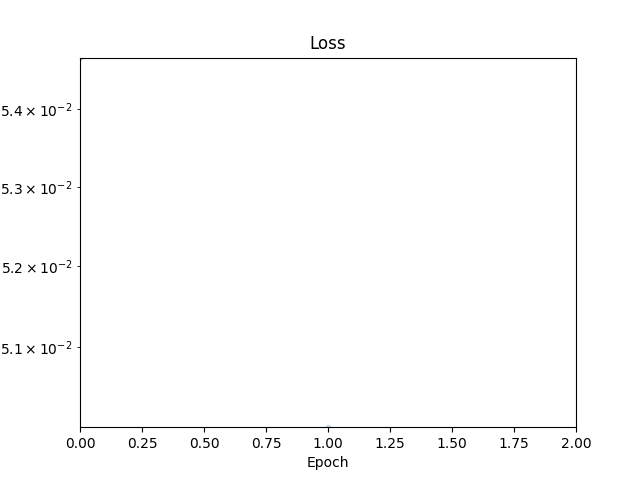
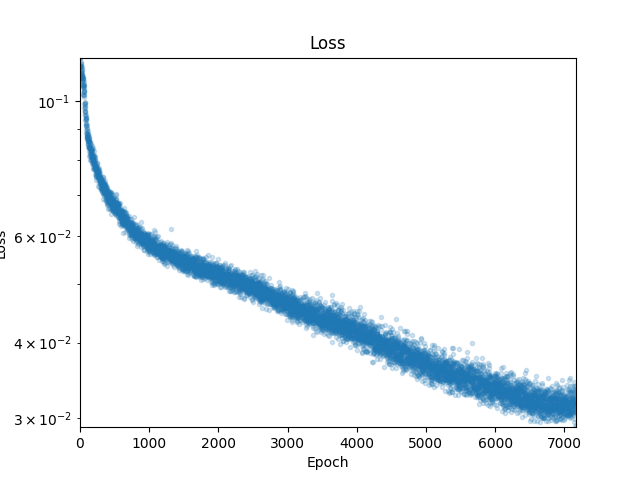
feat: update weights

diff --git a/training/train.py b/training/train.py
@@ -138,7 +138,6 @@ def forward_pass(model: nn.Module, state, updates, record=False):  # TODO
 
     return state
 
-
 def update_pass(model, batch, target_voxel, optimiser):
     """
     Back calculate gradient and update model paramaters
@@ -217,13 +216,13 @@ if __name__ == "__main__":
     DEBUG_MODE = Debug.CONCISE  # OFF, VERBOSE, CONCISE
 
     torch.manual_seed(0)
-    TRAINING = True
+    TRAINING = False
     GRID_SIZE = 32
     CHANNELS = 16
     VOXEL_PATH_NAME = "donut"
 
     MODEL = NCA_3D()
-    EPOCHS = 40
+    EPOCHS = 0
     BATCH_SIZE = 32
     UPDATES_RANGE = [64, 96]
 
@@ -236,27 +235,27 @@ if __name__ == "__main__":
     target_voxel = minimise_voxel(target_voxel).cpu()
     # anim = visualise(target_voxel, save=False, show=True)
 
-    if TRAINING:
-        if os.path.exists(f"{VOXEL_PATH_NAME}.pth"):
-            MODEL.load_state_dict(
-                torch.load(f"{VOXEL_PATH_NAME}.pth", map_location=torch.device("cpu"))
-            )
-        MODEL, losses = train(MODEL, target_voxel, optimizer, DEBUG_MODE=DEBUG_MODE)
-        torch.save(MODEL.state_dict(), f"{VOXEL_PATH_NAME}.pth")
+    if os.path.exists(f"{VOXEL_PATH_NAME}.pth"):
+        MODEL.load_state_dict(
+            torch.load(f"{VOXEL_PATH_NAME}.pth", map_location=torch.device("cpu"))
+        )
+    # if TRAINING:
+        # MODEL, losses = train(MODEL, target_voxel, optimizer, DEBUG_MODE=DEBUG_MODE)
+        # torch.save(MODEL.state_dict(), f"{VOXEL_PATH_NAME}.pth")
 
-        # Plot losses, and save to loss.png
-        fig = plt.figure()
-        ax = fig.add_subplot(1, 1, 1)
+        # # Plot losses, and save to loss.png
+        # fig = plt.figure()
+        # ax = fig.add_subplot(1, 1, 1)
 
-        ax.cla()
-        ax.set_yscale('log')
-        ax.set_xlim(0, EPOCHS)
-        ax.set_ylim(min(losses), losses[0])
-        ax.set_xlabel('Epoch')
-        ax.set_ylabel('Loss')
-        ax.set_title('Loss')
-        ax.plot(losses, '.', alpha=0.2)
-        plt.savefig('loss.png')
+        # ax.cla()
+        # ax.set_yscale('log')
+        # ax.set_xlim(0, EPOCHS)
+        # ax.set_ylim(min(losses), losses[0])
+        # ax.set_xlabel('Epoch')
+        # ax.set_ylabel('Loss')
+        # ax.set_title('Loss')
+        # ax.plot(losses, '.', alpha=0.2)
+        # plt.savefig('loss.png')
         
 
     # ## Switch state to evaluation to disable dropout e.g.
